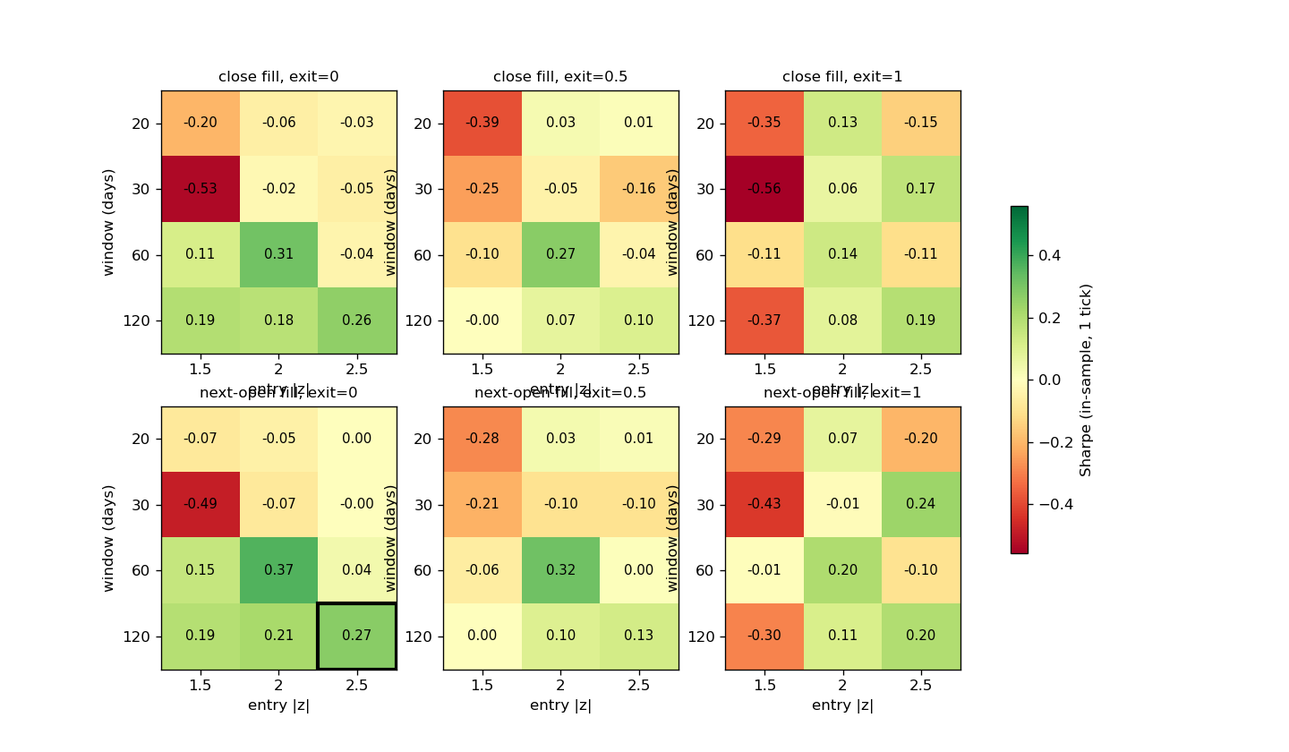
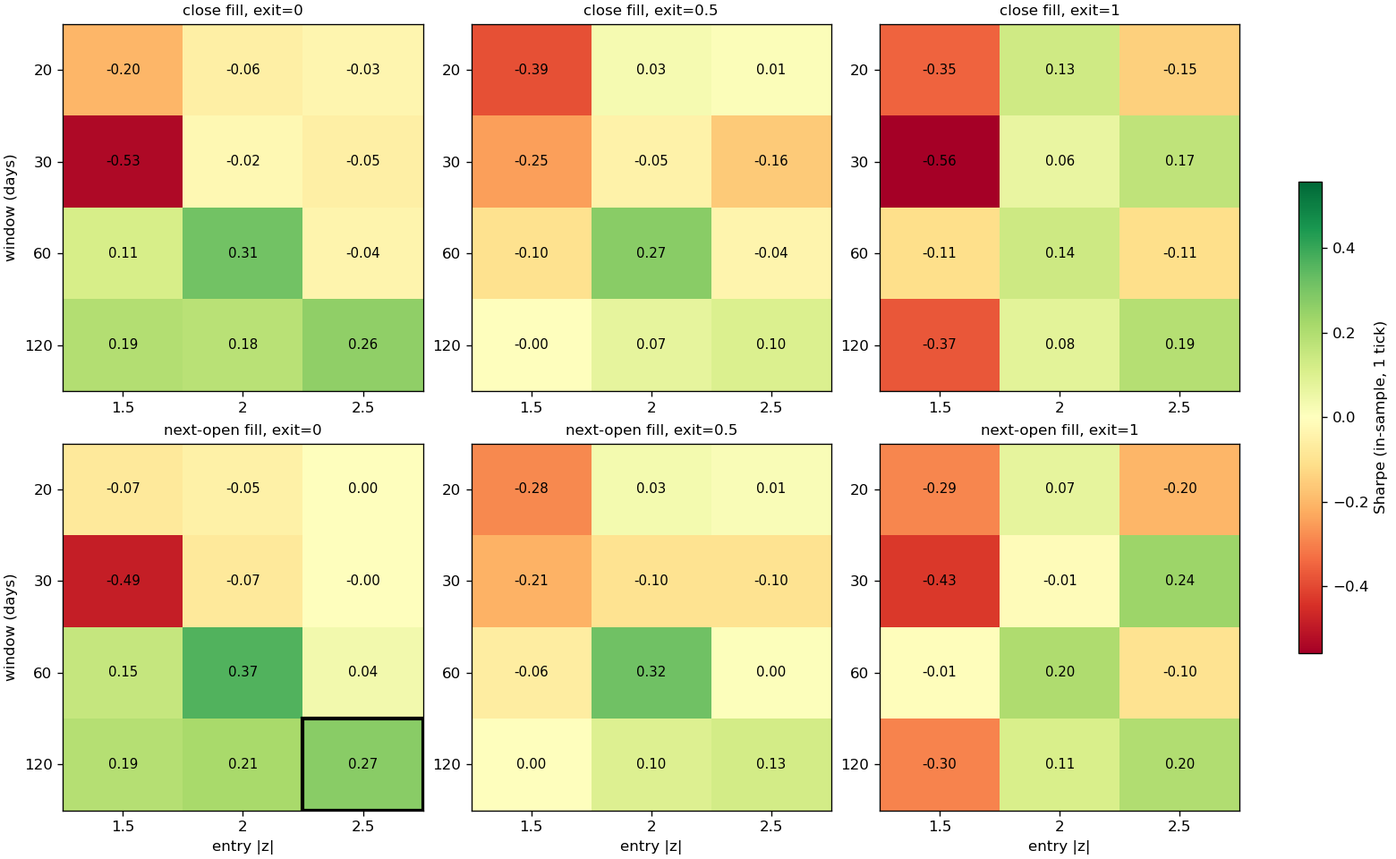
任务6：报告文字修订与说明性统计（策略、参数未动，样本外结果文件哈希不变）

diff --git a/src/report.py b/src/report.py
@@ -81,7 +81,7 @@ def fig_lines(panels, path, height=3.2):
 
 def fig_heatmap(g, sel, path):
     vmax = np.nanmax(np.abs(g['sharpe']))
-    fig, axes = plt.subplots(2, 3, figsize=(12, 7))
+    fig, axes = plt.subplots(2, 3, figsize=(13, 8), constrained_layout=True)
     for r, fill in enumerate(FILLS):
         for c, x in enumerate(EXITS):
             ax = axes[r, c]
@@ -95,8 +95,10 @@ def fig_heatmap(g, sel, path):
                 ax.add_patch(plt.Rectangle((j - .5, i - .5), 1, 1, fill=False, ec='black', lw=2.5))
             ax.set_xticks(range(len(ENTRIES)), [f'{e:g}' for e in ENTRIES])
             ax.set_yticks(range(len(WINDOWS)), [str(w) for w in WINDOWS])
-            ax.set_xlabel('entry |z|')
-            ax.set_ylabel('window (days)')
+            if r == 1:
+                ax.set_xlabel('entry |z|')
+            if c == 0:
+                ax.set_ylabel('window (days)')
             ax.set_title(f'{FILL_EN[fill]}, exit={x:g}', fontsize=10)
     fig.colorbar(im, ax=axes, shrink=0.6, label='Sharpe (in-sample, 1 tick)')
     fig.savefig(path, dpi=120)
@@ -152,7 +154,24 @@ def write(R):
     yr = R['yearly']
     d_c, d_o = df['open'], df['close']
     oos_t = R['oos'][1]['open', 1][1]
-    rolls = R['rolls']
+    rolls, ts, er = R['rolls'], R['ts'], R['early']
+    fmdd = [row(fx_tab, version=n, fill='open')['mdd'] for n in names]
+    fn = [int(row(fx_tab, version=n, fill='open')['n']) for n in names]
+    steps = [f'{names[k]}：夏普 {num(fsh[k - 1])}→{num(fsh[k])}，最大回撤 {pct(fmdd[k - 1])}→{pct(fmdd[k])}，交易 {fn[k - 1]}→{fn[k]} 笔'
+             for k in range(1, len(names))]
+    edge = [t for t, ok in (('窗口取最大值', P['window'] == max(WINDOWS)), ('窗口取最小值', P['window'] == min(WINDOWS)),
+                            ('开仓取最大值', P['entry'] == max(ENTRIES)), ('开仓取最小值', P['entry'] == min(ENTRIES)),
+                            ('平仓取最大值', P['exit'] == max(EXITS)), ('平仓取最小值', P['exit'] == min(EXITS))) if ok]
+    ti = R['cost_is'][1]['open', 1][1]
+    side = ti.groupby('side')['net'].agg(['size', 'sum'])
+    tc, to_ = R['oos'][1]['close', 1][1], R['oos'][1]['open', 1][1]
+    mg = tc.merge(to_, on='open_signal', suffixes=('_c', '_o'))
+    gd = mg['pnl_c'] - mg['pnl_o']
+    k = gd.idxmax()
+    kd = mg.at[k, 'open_signal']
+    i_k = mkt.dates.searchsorted(kd)
+    s_jump = (mkt.S_close.at[kd, mg.at[k, 'month_c']], mkt.S_open.iat[i_k + 1, mkt.months.index(mg.at[k, 'month_c'])])
+    yn = R['yearly']['n']
 
     s = []
     s.append(f"""# MTO 价差策略复盘：复现、缺陷与修正
@@ -184,13 +203,13 @@ S = 5·L + 5·PP − 30·MA（元/单位）
 
 **无成交日**：日线中收盘价缺失 {R['fills']['收盘用结算价补']:,} 行，用当日结算价补；开盘价缺失 {R['fills']['开盘用收盘价补']:,} 行，用补后的收盘价补（共 {R['fills']['总行数']:,} 行）。期货按结算价盯市，这条规则主要影响原版持有到期那几天。
 
-**样本内起点**：10 吨/手的 MA 合约 2014 年 6 月才上市。2014-12-01 至 {day(IS_START)} 之前换月日历在持的组为 {'、'.join(R['early']['months'])}，其 L、PP 腿日成交量中位数只有 {R['early']['vol']['L']:,.0f} 手、{R['early']['vol']['PP']:,.0f} 手，{R['early']['n']} 个交易日中有 {R['early']['zero_days']} 天某条腿没有成交。样本内从 {day(IS_START)} 开始（此时已换到三腿都活跃的组），这个起点在跑任何回测之前按流动性定下。
+**样本内起点**：10 吨/手的 MA 合约 2014 年 6 月才上市。2014-12-01 至 {day(er['last'])} 换月日历在持的组为 {'、'.join(R['early']['months'])}，其 L、PP 腿日成交量中位数只有 {R['early']['vol']['L']:,.0f} 手、{R['early']['vol']['PP']:,.0f} 手，{R['early']['n']} 个交易日中有 {R['early']['zero_days']} 天某条腿没有成交。样本内从 {day(IS_START)} 开始（此时已换到三腿都活跃的组），这个起点在跑任何回测之前按流动性定下。
 
-**换月**：三腿用同一交割月。每天在候选组里选前一交易日 MA 持仓量最大的那组（MA 主力），只向后换；某组合约在「交割月前一个月的首个交易日」之前 3 个交易日起不再选用，这样收盘成交和次日开盘成交两种口径都能在交割月前一个月之前换完。换月当天平旧开新，两边都计成本。样本内共换月 {rolls['n_is']} 次，换月日距交割月前一个月首日的交易日数中位数为 {rolls['lead_med']:.0f} 天。
+**换月**：三腿用同一交割月。每天在候选组里选前一交易日 MA 持仓量最大的那组（MA 主力），只向后换；某组合约在「交割月前一个月的首个交易日」之前 3 个交易日起不再选用，这样收盘成交和次日开盘成交两种口径都能在交割月前一个月之前换完。换月当天平旧开新，两边都计成本。样本内共换月 {rolls['n_is']} 次，换月日距交割月前一个月首日的交易日数中位数为 {rolls['lead_med']:.0f} 天，多数换月由截止日触发，此时 MA 持仓量还没有转到下一个主力合约。样本内有 {rolls['n_odd']} 次在截止日换到了非 01/05/09 月份（2022 年起郑商所甲醇这些月份的持仓量一度超过下一个 01/05/09 合约，规则选中了当时持仓量最大的可选组），随后 {rolls['lag_min']}–{rolls['lag_max']} 个交易日内又换到 01/05/09 月份，有持仓时多付一次换月成本。这是换月规则的缺陷，在样本外运行之后才发现，没有改（见 BLOCKED.md）。
 
 **μ、σ 的算法**：每组合约只用它自己过去 w 天的 S。例如换月当天，z 用新组合约过去 w 天的 S 算，不用「旧组历史接新组当日」的拼接序列，避免换月跳空伪造信号。`tests/test_data.py` 对此有专门测试。
 
-**成交与成本**：信号每天收盘算一次。乐观口径按信号日收盘价成交，保守口径按次日开盘价成交（三个品种有夜盘的时期，次日开盘即当晚夜盘开盘）。每腿每边手续费 = 名义额 × {FEE:.4f}，另加滑点 1 跳（另测 0 跳、2 跳）。1 单位 = 1 手 L + 1 手 PP + 3 手 MA，按样本内在持合约的收盘价，1 单位单边成本中位数约 {lv['cost_side_med']:.0f} 元，其中滑点 {lv['slip_side']:.0f} 元。
+**成交与成本**：信号每天收盘算一次。乐观口径按信号日收盘价成交，保守口径按次日开盘价成交（三个品种有夜盘的时期，次日开盘即当晚夜盘开盘）。每腿每边手续费 = 名义额 × {FEE:.4f}，另加滑点 1 跳（另测 0 跳、2 跳）。1 单位 = 1 手 L + 1 手 PP + 3 手 MA，按样本内在持合约的收盘价，1 单位单边成本中位数约 {lv['cost_side_med']:.0f} 元；其中 1 跳滑点在 {day(L_TICK5_BEFORE)} 前为 {lv['slip_before']:.0f} 元、之后为 {lv['slip_after']:.0f} 元。
 
 **收益口径**：日收益率 = 当日净盈亏 / ({MARGIN:.0%} × 前一交易日在持合约 1 单位名义总额)。1 单位名义总额中位数约 {lv['notional_med']/1e4:.1f} 万元，对应保证金约 {lv['margin_med']/1e4:.2f} 万元。净值按日收益简单累加（仓位固定 1 单位，不复利）；年化收益 = 日均收益 × 252；夏普 = 年化收益 / 年化波动（无风险利率取 0，空仓日收益记 0）；最大回撤按累加净值相对前高计算。
 
@@ -207,7 +226,7 @@ S = 5·L + 5·PP − 30·MA（元/单位）
 （fill：close 为乐观口径，open 为保守口径。）交易明细见 `report/trades_original.csv`。
 
 - 原版在样本内保守口径、1 跳成本下年化收益 {pct(v0c.ann_ret)}，夏普 {num(v0c.sharpe)}，最大回撤 {pct(v0c.mdd)}，共 {int(v0c.n)} 笔交易，胜率 {pct(v0c.win)}。乐观口径夏普 {num(v0o.sharpe)}；零成本保守口径夏普 {num(v0z.sharpe)}。{'最大回撤超过 100%，按 12% 保证金持 1 单位，回撤期间亏掉的钱超过全部保证金，实盘会被强平。' if v0c.mdd > 1 else ''}
-- 在原脚本自己的 2409 合约与区间上（保守口径、1 跳），共 {int(dm.n)} 笔交易，年化收益 {pct(dm.ann_ret)}，夏普 {num(dm.sharpe)}。区间只有半年，交易笔数少，这组数只用来核对复现本身。
+- 在原脚本自己的 2409 合约与区间上（保守口径、1 跳），共 {int(dm.n)} 笔交易，年化收益 {pct(dm.ann_ret)}，夏普 {num(dm.sharpe)}。区间只有半年、{int(dm.n)} 笔交易；同一逻辑放到整个样本内夏普为 {num(v0c.sharpe)}，{'原脚本自带的回测区间恰好是这个策略表现好的一段。' if dm.sharpe > v0c.sharpe + 0.5 else '两者差别不大。'}
 
 ![原版净值](fig/equity_original.png)
 
@@ -215,12 +234,12 @@ S = 5·L + 5·PP − 30·MA（元/单位）
 
 以下定量都取原版样本内结果（1 跳成本），括号前为保守口径，括号内为乐观口径。
 
-1. **止损后没有冷静期**。止损把 `in_position` 置为 False 后，下一次判断时 z 往往仍在 ±2 以外，会按原方向立刻重开。样本内止损 {d_c['n_stop']} 次（{d_o['n_stop']} 次），其中止损次日同方向重开 {d_c['n_reentry']} 次（{d_o['n_reentry']} 次），这些重开交易净盈亏合计 {d_c['reentry_net']:,.0f} 元/单位（{d_o['reentry_net']:,.0f}）。原脚本在盘中每个 tick 都判断，重开可能发生在止损后的下一个 tick，日线回测看不到这一层。
-2. **不换月**。合约写死，到期前一个多月流动性已转到下一个合约，交割月前一个月交易所上调保证金、自然人不能进入交割月。样本内有仓位的 {d_c['held_days']} 天中，有 {d_c['late_days']} 天落在交割月前一个月或交割月（其中交割月 {d_c['deliv_days']} 天），这些天的净盈亏合计 {d_c['late_net']:,.0f} 元/单位；这些天在持 MA 合约日成交量中位数 {d_c['vol_late']:,.0f} 手，其余持仓日为 {d_c['vol_normal']:,.0f} 手。到期强平 {d_c['n_expiry']} 次。
+1. **止损后没有冷静期**。止损把 `in_position` 置为 False 后，下一次判断时 z 往往仍在 ±2 以外，会按原方向立刻重开。样本内止损 {d_c['n_stop']} 次（{d_o['n_stop']} 次），其中止损次日同方向重开 {d_c['n_reentry']} 次（{d_o['n_reentry']} 次），这些重开交易净盈亏合计 {d_c['reentry_net']:,.0f} 元/单位（{d_o['reentry_net']:,.0f}），胜率 {pct(d_c['reentry_win'])}（{pct(d_o['reentry_win'])}）。原脚本在盘中每个 tick 都判断，重开可能发生在止损后的下一个 tick，日线回测看不到这一层。
+2. **不换月**。合约写死，到期前一个多月流动性已转到下一个合约，临近交割月交易所分段提高保证金，个人客户的持仓不能进入交割月。样本内有仓位的 {d_c['held_days']} 天中，有 {d_c['late_days']} 天落在交割月前一个月或交割月（其中交割月 {d_c['deliv_days']} 天），这些天的净盈亏合计 {d_c['late_net']:,.0f} 元/单位（{d_o['late_net']:,.0f}），全部持仓日合计 {d_c['total_net']:,.0f}（{d_o['total_net']:,.0f}）；这些天在持 MA 合约日成交量中位数 {d_c['vol_late']:,.0f} 手，其余持仓日为 {d_c['vol_normal']:,.0f} 手。到期强平 {d_c['n_expiry']} 次。
 3. **平仓条件不分方向**。平仓要求 |z| < 0.5。如果做空后 z 一天内从 2 以上跌到 −0.5 以下，价差已越过均值，脚本仍持仓，要等 z 回到 ±0.5 以内才平，而持空的止损只看 z > 3。样本内有 {d_c['n_overshoot']} 笔交易（{d_o['n_overshoot']} 笔）在持仓期间出现过 z 越过均值到另一侧 0.5 以外仍未平仓。另外平仓阈值取 0 时 |z| < 0 永远不成立，网格里测平仓阈值 0 需要改成方向性判断。
-4. **窗口 {W0} 天与价差回归速度对不上**。样本内去掉换月跳空后的连续价差，AR(1) 半衰期为 {st['adj_hl']:.1f} 个交易日，ADF 检验 p 值 {st['adj_p']:.2f}；每组合约在持期内单独估计，半衰期中位数 {st['per']['hl'].median():.1f} 天，但 {len(st['per'])} 组里只有 {int((st['per']['p'] < 0.05).sum())} 组 ADF 在 5% 水平拒绝单位根。两种估计相差一个数量级，日频上价差均值回归的证据弱。
+4. **窗口 {W0} 天与价差回归速度对不上**。样本内去掉换月跳空后的连续价差，AR(1) 半衰期为 {st['adj_hl']:.1f} 个交易日，ADF 检验 p 值 {st['adj_p']:.2f}；每组合约在持期内单独估计，半衰期中位数 {st['per']['hl'].median():.1f} 天，但 {len(st['per'])} 组里只有 {int((st['per']['p'] < 0.05).sum())} 组 ADF 在 5% 水平拒绝单位根。两种估计相差约 {st['adj_hl'] / st['per']['hl'].median():.0f} 倍，日频上价差均值回归的证据弱。
 5. **`position_time` 记录了没用**，没有持仓时间上限。
-6. 其他（日线回测无法定量，只列出）：三腿 K 线按序号对齐而非按日期，某腿缺一根 K 线时三腿会错位；`current_l_pos` 取的是成交回报后的实际持仓，委托未成交时止损判断会失效；回测未计手续费和滑点；100 手 L、300 手 MA 的下单量未考虑盘口深度。
+6. 其他（日线回测无法定量，只列出）：三腿 K 线按序号对齐而非按日期，某腿缺一根 K 线时三腿会错位；`current_l_pos` 取的是成交回报后的实际持仓，委托未成交时止损判断会失效；100 手 L、300 手 MA 的下单量未考虑盘口深度。
 
 ## 5 修正版（样本内，1 跳成本）
 
@@ -233,7 +252,7 @@ S = 5·L + 5·PP − 30·MA（元/单位）
 
 {mtable(fx_tab, ['version', 'fill'], '版本 / 成交')}
 
-保守口径下各步夏普：""" + '；'.join(f'{n} {num(v)}' for n, v in zip(names, fsh)) + f"""。年化收益：""" + '；'.join(f'{n} {pct(v)}' for n, v in zip(names, far)) + f"""。
+保守口径逐步变化：""" + '；'.join(steps) + f"""。
 
 ![各版本净值](fig/equity_versions.png)
 
@@ -243,7 +262,7 @@ S = 5·L + 5·PP − 30·MA（元/单位）
 
 ![夏普热力图](fig/heatmap_sharpe.png)
 
-保守口径 36 格中夏普为正的有 {int((gi['sharpe'] > 0).sum())} 格，中位数 {num(gi['sharpe'].median())}，最高 {num(gi['sharpe'].max())}，最低 {num(gi['sharpe'].min())}。
+保守口径 36 格中夏普为正的有 {int((gi['sharpe'] > 0).sum())} 格，中位数 {num(gi['sharpe'].median())}，最高 {num(gi['sharpe'].max())}，最低 {num(gi['sharpe'].min())}。{('选中格处在网格边上（' + '、'.join(edge) + '），邻域比内部格少，网格以外的参数没有测。') if edge else ''}
 
 **选参规则**：每格与它在窗口、开仓、平仓三个方向上的相邻格（含对角，边界截断）取保守口径夏普的平均，选平均最高的格，不看单点最高。选出窗口 {P['window']}、开仓 {P['entry']:g}、平仓 {P['exit']:g}：本格夏普 {num(P['sharpe'])}，邻域平均 {num(P['neighborhood_sharpe'])}。单点最高的格是窗口 {P['best_single']['window']}、开仓 {P['best_single']['entry']:g}、平仓 {P['best_single']['exit']:g}，夏普 {num(P['best_single']['sharpe'])}，其邻域平均 {num(P['best_single']['neighborhood_sharpe'])}。参数已写入 `report/params.json` 并单独提交，之后才运行样本外。本次运行按同一规则重算的选择与冻结参数{'一致' if same else '不一致（样本外仍用冻结参数）'}。
 
@@ -251,7 +270,7 @@ S = 5·L + 5·PP − 30·MA（元/单位）
 
 {table(yr.rename(columns={'ret': '年度收益', 'sharpe': '夏普', 'mdd': '年内最大回撤', 'n': '开仓次数'}).rename_axis('年份'), {'年度收益': pct, '年内最大回撤': pct, '开仓次数': lambda v: f'{int(v)}'})}
 
-样本内 {len(yr)} 个年度中收益为正的有 {int((yr['ret'] > 0).sum())} 个。
+样本内 {len(yr)} 个年度中收益为正的有 {int((yr['ret'] > 0).sum())} 个；冻结参数样本内共 {int(pc.n)} 笔交易，每年 {yn.min()}–{yn.max()} 笔，年度收益在 {pct(yr['ret'].min())} 到 {pct(yr['ret'].max())} 之间。
 
 **成本敏感性**（冻结参数，样本内）：
 
@@ -265,6 +284,8 @@ S = 5·L + 5·PP − 30·MA（元/单位）
 
 每组合约在持期内单独检验（在持不少于 40 天的 {len(st['per'])} 组）：ADF p < 0.05 的有 {int((st['per']['p'] < 0.05).sum())} 组，p 值中位数 {st['per']['p'].median():.3f}；半衰期中位数 {st['per']['hl'].median():.1f} 天。
 
+**价差的期限结构**：样本内 {ts['n']} 次换月中，新组合约的 S 低于旧组同日收盘的占 {pct(ts['gap_neg'])}，平均差 {ts['gap_mean']:,.0f} 元/单位。在持组逐日变化累加为 {st['adj'].iloc[-1]:+,.0f} 元，而在持组原始 S 从 {ts['raw0']:,.0f} 元变为 {ts['raw1']:,.0f} 元：远月组的利润价差系统性低于近月组，每组在持期间 S 平均向上走（见第 2 节图中第二幅）。z 分数以滚动均值为中心、多空对称，持有期内的向上漂移对做空利润一方不利。冻结参数样本内（保守口径）做空利润 {int(side.at[-1, 'size'])} 笔、净盈亏合计 {side.at[-1, 'sum']:,.0f} 元/单位；做多利润 {int(side.at[1, 'size'])} 笔、合计 {side.at[1, 'sum']:,.0f} 元/单位。
+
 ## 7 样本外（{day(OOS_START)} 至 {day(last)}，冻结参数，只跑一次）
 
 参数：窗口 {P['window']}、开仓 {P['entry']:g}、平仓 {P['exit']:g}、止损 {P['entry'] * P['stop_mult']:g}，冷静期、换月、方向性平仓均开启。样本外从空仓开始。
@@ -273,17 +294,19 @@ S = 5·L + 5·PP − 30·MA（元/单位）
 
 保守口径、1 跳：样本外年化收益 {pct(po.ann_ret)}，夏普 {num(po.sharpe)}，最大回撤 {pct(po.mdd)}，{int(po.n)} 笔交易；同参数样本内夏普 {num(pc.sharpe)}。乐观口径样本外夏普 {num(pco.sharpe)}。
 
+两种口径的信号完全相同，差别只在成交价。样本外 {len(mg)} 笔交易的毛盈亏，乐观口径合计 {mg['pnl_c'].sum():,.0f} 元/单位，保守口径 {mg['pnl_o'].sum():,.0f} 元/单位，差 {gd.sum():,.0f}；其中 {day(kd)} 发出信号的那笔差 {gd[k]:,.0f}，当晚在持组 S 从收盘 {s_jump[0]:,.0f} 元跳到次日开盘 {s_jump[1]:,.0f} 元。去掉这一笔，两种口径毛盈亏差 {gd.sum() - gd[k]:,.0f} 元/单位。
+
 样本外交易（保守口径、1 跳）：
 
-{table(oos_t.assign(side=oos_t.side.map({1: '做多利润', -1: '做空利润'})).set_index('open_exec').rename_axis('开仓成交日')[['side', 'close_exec', 'reason', 'z_open', 'z_close', 'hold_days', 'rolls', 'net']].rename(columns={'side': '方向', 'close_exec': '平仓成交日', 'reason': '平仓原因', 'z_open': '开仓z', 'z_close': '平仓z', 'hold_days': '持仓天数', 'rolls': '换月', 'net': '净盈亏(元/单位)'}), {'开仓z': num, '平仓z': num, '净盈亏(元/单位)': lambda v: f'{v:,.0f}'}) if len(oos_t) else '（无交易）'}
+{table(oos_t.assign(side=oos_t.side.map({1: '做多利润', -1: '做空利润'}), open_exec=oos_t.open_exec.map(day), close_exec=oos_t.close_exec.map(day)).set_index('open_exec').rename_axis('开仓成交日')[['side', 'close_exec', 'reason', 'z_open', 'z_close', 'hold_days', 'rolls', 'net']].rename(columns={'side': '方向', 'close_exec': '平仓成交日', 'reason': '平仓原因', 'z_open': '开仓z', 'z_close': '平仓z', 'hold_days': '持仓天数', 'rolls': '换月', 'net': '净盈亏(元/单位)'}), {'开仓z': num, '平仓z': num, '净盈亏(元/单位)': lambda v: f'{v:,.0f}'}) if len(oos_t) else '（无交易）'}
 
 ![样本外净值](fig/equity_oos.png)
 
 ## 8 实盘视角
 
-**三腿同步成交**：MA 在郑商所，L、PP 在大商所，三腿无法用一张组合单成交，只能分腿下单，先成交的腿要承担其余腿的价格变动。日线数据量化不了盘中分腿的风险，只能给出两个参照：样本内在持组合约的价差从前一日收盘到次日开盘的跳动绝对值中位数 {lv['gap_med']:,.0f} 元/单位、90% 分位 {lv['gap_p90']:,.0f} 元，同期 {W0} 日滚动 σ 中位数 {lv['sd_med']:,.0f} 元；冻结参数下保守口径与乐观口径的样本内夏普分别为 {num(row(c_is, fill='open', ticks=1).sharpe)} 和 {num(row(c_is, fill='close', ticks=1).sharpe)}，差值反映成交时点晚半天的代价。
+**三腿同步成交**：MA 在郑商所，L、PP 在大商所，三腿无法用一张组合单成交，只能分腿下单，先成交的腿要承担其余腿的价格变动。日线数据量化不了盘中分腿的风险，只能给出两个参照：样本内在持组合约的价差从前一日收盘到次日开盘的跳动绝对值中位数 {lv['gap_med']:,.0f} 元/单位、90% 分位 {lv['gap_p90']:,.0f} 元，同期 {W0} 日滚动 σ 中位数 {lv['sd_med']:,.0f} 元；冻结参数下保守、乐观口径的夏普，样本内为 {num(pc.sharpe)} 和 {num(row(c_is, fill='close', ticks=1).sharpe)}，样本外为 {num(po.sharpe)} 和 {num(pco.sharpe)}。样本外的差距主要来自第 7 节那一次隔夜跳空。信号在收盘产生，实盘要按接近收盘的价格成交，只能在收盘前几分钟用盘中价格算信号并三腿同时下单，成交价介于两种口径之间，还要承担分腿风险。
 
-**保证金**：按 {MARGIN:.0%} 计，1 单位保证金中位数约 {lv['margin_med']/1e4:.2f} 万元。冻结参数样本内（保守口径）单笔交易持仓期间最大浮亏中位数为保证金的 {pct(lv['mae_med'])}，最差一笔为 {pct(lv['mae_worst'])}。实盘还要留出交易所临近交割月上调保证金和期货公司加收的部分；换月规则让持仓不进入交割月前一个月，避开了临近交割的保证金上调。
+**保证金**：按 {MARGIN:.0%} 计，1 单位保证金中位数约 {lv['margin_med']/1e4:.2f} 万元。冻结参数样本内（保守口径）单笔交易持仓期间最大浮亏占保证金的比例，中位数 {pct(-lv['mae_med'])}，最差一笔 {pct(-lv['mae_worst'])}。实盘还要留出交易所临近交割月上调保证金和期货公司加收的部分；换月规则让持仓不进入交割月前一个月，避开了临近交割的保证金上调。
 
 **流动性**：样本内在持合约日成交量中位数 L {lv['vol_med']['L']:,.0f} 手、PP {lv['vol_med']['PP']:,.0f} 手、MA {lv['vol_med']['MA']:,.0f} 手；换月当天新组合约的成交量中位数 L {lv['vol_roll']['L']:,.0f}、PP {lv['vol_roll']['PP']:,.0f}、MA {lv['vol_roll']['MA']:,.0f} 手。原脚本的下单量（100 手 L、100 手 PP、300 手 MA）分别占上述日成交量中位数的 {pct(lv['demo_share']['L'], 2)}、{pct(lv['demo_share']['PP'], 2)}、{pct(lv['demo_share']['MA'], 2)}。日成交量只说明全天容量，开盘和夜盘开盘时点的盘口深度需要逐笔数据另行评估。
 
@@ -295,7 +318,9 @@ S = 5·L + 5·PP − 30·MA（元/单位）
 **局限**：
 - 只有日线，信号每天判断一次，盘中触发、分腿成交、冲击成本都没有模拟；滑点按固定跳数假设，没有盘口数据校准。
 - 手续费按名义额万分之一估计，与各期货公司实际费率不同；成本敏感性表给出 0、1、2 跳的结果。
-- 10 吨/手的 MA 合约 2014 年 6 月才上市，样本内从 {day(IS_START)} 开始，前几个月在持的 MA 合约还不是全市场主力（当时主力是 50 吨/手的老合约，不在数据里）。
+- 10 吨/手的 MA 合约 2014 年 6 月才上市，早期组合约的 L、PP 腿成交稀少，样本内从 {day(IS_START)} 开始，只有约 10 年。
+- 换月规则按当时持仓量最大的可选组换，样本内有 {rolls['n_odd']} 次先换到非 01/05/09 月份、几周内再换一次（第 2 节）；这一点在样本外运行后才发现，没有改。
+- ③ 的窗口规则在看过样本内网格后改过一次（第 5 节）。
 - 样本外约 {R['oos_years']:.1f} 年，交易 {int(po.n)} 笔，统计意义有限。
 - 选参只看夏普一个指标，邻域取平均的规则本身也是一种选择。
 
@@ -313,12 +338,19 @@ pytest -q                # 数据层与回测引擎测试
 
 
 def conclusions(R, v0c, fsh, far, gi, P, pc, po, same):
-    out = []
-    out.append(f"1. 原版逻辑在样本内扣除 1 跳成本后（保守口径）年化收益 {pct(v0c.ann_ret)}、夏普 {num(v0c.sharpe)}，"
-               f"{'不具备可交易的收益' if v0c.sharpe < 0.5 else '有一定收益'}。")
-    out.append(f"2. 四处修正累加后（v4，保守口径）夏普由 {num(fsh[0])} {up_down(fsh[0], fsh[-1])} {num(fsh[-1])}，"
-               f"年化收益由 {pct(far[0])} 变为 {pct(far[-1])}。各步贡献见第 5 节表格。")
-    out.append(f"3. 参数网格保守口径 36 格中 {int((gi['sharpe'] > 0).sum())} 格夏普为正；按邻域平均选出的参数样本内夏普 {num(pc.sharpe)}。")
-    out.append(f"4. 冻结参数在样本外（保守口径、1 跳）夏普 {num(po.sharpe)}、年化收益 {pct(po.ann_ret)}、{int(po.n)} 笔交易，"
-               f"{'方向与样本内一致' if np.sign(po.ann_ret) == np.sign(pc.ann_ret) else '与样本内方向相反'}。")
+    names = list(R['fix'][0]['version'].unique())
+    k = int(np.argmax(np.diff(fsh))) + 1
+    pco = row(R['oos'][0], fill='close', ticks=1)
+    st = R['stat']
+    out = [f"1. 原版逻辑在样本内扣除 1 跳成本后（保守口径）年化收益 {pct(v0c.ann_ret)}、夏普 {num(v0c.sharpe)}、最大回撤 {pct(v0c.mdd)}，"
+           f"{'没有可交易的收益' if v0c.sharpe < 0.5 else '有一定收益'}；主要亏损来自不换月时在交割月前一个月及交割月的持仓（第 4 节第 2 条）。",
+           f"2. 四处修正累加后（v4，保守口径）夏普由 {num(fsh[0])} 变为 {num(fsh[-1])}，年化收益由 {pct(far[0])} 变为 {pct(far[-1])}；"
+           f"单步夏普提高最多的是 {names[k]}（{num(fsh[k - 1])}→{num(fsh[k])}）。",
+           f"3. 参数网格保守口径 36 格中 {int((gi['sharpe'] > 0).sum())} 格夏普为正、中位数 {num(gi['sharpe'].median())}；"
+           f"按邻域平均选出的参数样本内夏普 {num(pc.sharpe)}，只有 {int(pc.n)} 笔交易。",
+           f"4. 冻结参数在样本外保守口径（1 跳）夏普 {num(po.sharpe)}、年化收益 {pct(po.ann_ret)}，乐观口径夏普 {num(pco.sharpe)}，"
+           f"共 {int(po.n)} 笔交易；两种口径的差距基本来自一次隔夜跳空（第 7 节）。",
+           f"5. 去掉换月跳空后的连续价差 ADF p 值 {st['adj_p']:.2f}、半衰期 {st['adj_hl']:.0f} 个交易日，远月组价差系统性低于近月组；"
+           + ("在这些条件下，这个 z 分数均值回归策略修正后的样本内夏普不高、样本外保守口径没有正收益，现有证据不支持实盘。"
+              if pc.sharpe < 0.5 and po.sharpe < 0.5 else "策略收益需要结合上面的弱平稳性一起看。")]
     return '\n'.join(out) + '\n'

diff --git a/src/analysis.py b/src/analysis.py
@@ -203,7 +203,20 @@ def roll_stats(lab):
     tab = pd.DataFrame({'date': sw, 'from': old.to_numpy(), 'to': cal.loc[sw].to_numpy(), 'lead_days': lead})
     tab = tab.join(lab.mkt.codes.add_prefix('to_'), on='to')
     ins = (tab.date >= IS_START) & (tab.date <= IS_END)
-    return dict(n_is=int(ins.sum()), lead_med=float(np.median(lead[ins])), table=tab)
+    odd = ins & ~tab['to'].str[4:].isin(['01', '05', '09'])  # 换到非 01/05/09 月份
+    lag = dates.searchsorted(tab.date.shift(-1)[odd]) - dates.searchsorted(tab.date[odd])
+    return dict(n_is=int(ins.sum()), lead_med=float(np.median(lead[ins])), table=tab,
+                n_odd=int(odd.sum()), lag_min=int(lag.min()), lag_max=int(lag.max()))
+
+
+def term_structure(lab, start=IS_START, end=IS_END):
+    """换月日新组与旧组同日收盘 S 之差（新 − 旧），以及在持组原始 S 的首末值。"""
+    S, cal = lab.mkt.S_close, lab.cal['roll']
+    c = cal.loc[start:end]
+    sw = c.index[(c != c.shift()) & c.shift().notna()]
+    gap = pd.Series([S.at[d, n] - S.at[d, o] for d, o, n in zip(sw, cal.shift(1).loc[sw], c.loc[sw])], index=sw)
+    raw = pick(S, cal).loc[start:end]
+    return dict(n=len(gap), gap_mean=gap.mean(), gap_neg=(gap < 0).mean(), raw0=raw.iloc[0], raw1=raw.iloc[-1])
 
 
 def early_liquidity(lab, start='20141201', end=IS_START):
@@ -211,7 +224,7 @@ def early_liquidity(lab, start='20141201', end=IS_START):
     mkt, cal = lab.mkt, lab.cal['roll']
     days = cal.loc[start:end].index[:-1]
     v = {l: pick(mkt.vol[l], cal).loc[days] for l in LEGS}
-    return dict(months=sorted(set(cal.loc[days])), vol={l: s.median() for l, s in v.items()},
+    return dict(months=sorted(set(cal.loc[days])), last=days[-1], vol={l: s.median() for l, s in v.items()},
                 zero_days=int((sum(s == 0 for s in v.values()) > 0).sum()), n=len(days))
 
 
@@ -228,7 +241,8 @@ def live(lab, runs, start=IS_START, end=IS_END):
     return dict(gap_med=gap.median(), gap_p90=gap.quantile(0.9), sd_med=sd.median(),
                 notional_med=notional.median(), margin_med=MARGIN * notional.median(),
                 cost_side_med=pick(unit_cost(mkt, mkt.close, 1), cal).loc[start:end].median(),
-                slip_side=pick(unit_cost(mkt, mkt.close, 1) - unit_cost(mkt, mkt.close, 0), cal).loc[start:end].median(),
+                slip_before=sum(LOTS[l] * mkt.unit[l] * mkt.tick[l].loc[start].iloc[0] for l in LEGS),
+                slip_after=sum(LOTS[l] * mkt.unit[l] * mkt.tick[l].loc[end].iloc[0] for l in LEGS),
                 mae_med=(t.mae / t.margin).median(), mae_worst=(t.mae / t.margin).min(),
                 vol_med={l: v.median() for l, v in vol.items()},
                 vol_roll={l: v.loc[sw].median() for l, v in vol.items()},

diff --git a/run_all.py b/run_all.py
@@ -42,6 +42,7 @@ def main():
     R['live'] = A.live(lab, R['cost_is'][1])
     R['rolls'] = A.roll_stats(lab)
     R['early'] = A.early_liquidity(lab)
+    R['ts'] = A.term_structure(lab)
 
     out = A.REPORT
     R['orig'][1].to_csv(out / 'trades_original.csv', index=False)

diff --git a/report/report.md b/report/report.md
@@ -42,13 +42,13 @@ S = 5·L + 5·PP − 30·MA（元/单位）
 
 **无成交日**：日线中收盘价缺失 7,075 行，用当日结算价补；开盘价缺失 33,579 行，用补后的收盘价补（共 109,487 行）。期货按结算价盯市，这条规则主要影响原版持有到期那几天。
 
-**样本内起点**：10 吨/手的 MA 合约 2014 年 6 月才上市。2014-12-01 至 2015-05-04 之前换月日历在持的组为 201506、201509，其 L、PP 腿日成交量中位数只有 24 手、18 手，101 个交易日中有 30 天某条腿没有成交。样本内从 2015-05-04 开始（此时已换到三腿都活跃的组），这个起点在跑任何回测之前按流动性定下。
+**样本内起点**：10 吨/手的 MA 合约 2014 年 6 月才上市。2014-12-01 至 2015-04-30 换月日历在持的组为 201506、201509，其 L、PP 腿日成交量中位数只有 24 手、18 手，101 个交易日中有 30 天某条腿没有成交。样本内从 2015-05-04 开始（此时已换到三腿都活跃的组），这个起点在跑任何回测之前按流动性定下。
 
-**换月**：三腿用同一交割月。每天在候选组里选前一交易日 MA 持仓量最大的那组（MA 主力），只向后换；某组合约在「交割月前一个月的首个交易日」之前 3 个交易日起不再选用，这样收盘成交和次日开盘成交两种口径都能在交割月前一个月之前换完。换月当天平旧开新，两边都计成本。样本内共换月 35 次，换月日距交割月前一个月首日的交易日数中位数为 2 天。
+**换月**：三腿用同一交割月。每天在候选组里选前一交易日 MA 持仓量最大的那组（MA 主力），只向后换；某组合约在「交割月前一个月的首个交易日」之前 3 个交易日起不再选用，这样收盘成交和次日开盘成交两种口径都能在交割月前一个月之前换完。换月当天平旧开新，两边都计成本。样本内共换月 35 次，换月日距交割月前一个月首日的交易日数中位数为 2 天，多数换月由截止日触发，此时 MA 持仓量还没有转到下一个主力合约。样本内有 5 次在截止日换到了非 01/05/09 月份（2022 年起郑商所甲醇这些月份的持仓量一度超过下一个 01/05/09 合约，规则选中了当时持仓量最大的可选组），随后 2–10 个交易日内又换到 01/05/09 月份，有持仓时多付一次换月成本。这是换月规则的缺陷，在样本外运行之后才发现，没有改（见 BLOCKED.md）。
 
 **μ、σ 的算法**：每组合约只用它自己过去 w 天的 S。例如换月当天，z 用新组合约过去 w 天的 S 算，不用「旧组历史接新组当日」的拼接序列，避免换月跳空伪造信号。`tests/test_data.py` 对此有专门测试。
 
-**成交与成本**：信号每天收盘算一次。乐观口径按信号日收盘价成交，保守口径按次日开盘价成交（三个品种有夜盘的时期，次日开盘即当晚夜盘开盘）。每腿每边手续费 = 名义额 × 0.0001，另加滑点 1 跳（另测 0 跳、2 跳）。1 单位 = 1 手 L + 1 手 PP + 3 手 MA，按样本内在持合约的收盘价，1 单位单边成本中位数约 74 元，其中滑点 60 元。
+**成交与成本**：信号每天收盘算一次。乐观口径按信号日收盘价成交，保守口径按次日开盘价成交（三个品种有夜盘的时期，次日开盘即当晚夜盘开盘）。每腿每边手续费 = 名义额 × 0.0001，另加滑点 1 跳（另测 0 跳、2 跳）。1 单位 = 1 手 L + 1 手 PP + 3 手 MA，按样本内在持合约的收盘价，1 单位单边成本中位数约 74 元；其中 1 跳滑点在 2021-11-01 前为 60 元、之后为 40 元。
 
 **收益口径**：日收益率 = 当日净盈亏 / (12% × 前一交易日在持合约 1 单位名义总额)。1 单位名义总额中位数约 15.5 万元，对应保证金约 1.86 万元。净值按日收益简单累加（仓位固定 1 单位，不复利）；年化收益 = 日均收益 × 252；夏普 = 年化收益 / 年化波动（无风险利率取 0，空仓日收益记 0）；最大回撤按累加净值相对前高计算。
 
@@ -74,7 +74,7 @@ S = 5·L + 5·PP − 30·MA（元/单位）
 （fill：close 为乐观口径，open 为保守口径。）交易明细见 `report/trades_original.csv`。
 
 - 原版在样本内保守口径、1 跳成本下年化收益 5.0%，夏普 0.07，最大回撤 112.0%，共 158 笔交易，胜率 53.8%。乐观口径夏普 -0.02；零成本保守口径夏普 0.21。最大回撤超过 100%，按 12% 保证金持 1 单位，回撤期间亏掉的钱超过全部保证金，实盘会被强平。
-- 在原脚本自己的 2409 合约与区间上（保守口径、1 跳），共 8 笔交易，年化收益 43.1%，夏普 1.66。区间只有半年，交易笔数少，这组数只用来核对复现本身。
+- 在原脚本自己的 2409 合约与区间上（保守口径、1 跳），共 8 笔交易，年化收益 43.1%，夏普 1.66。区间只有半年、8 笔交易；同一逻辑放到整个样本内夏普为 0.07，原脚本自带的回测区间恰好是这个策略表现好的一段。
 
 ![原版净值](fig/equity_original.png)
 
@@ -82,12 +82,12 @@ S = 5·L + 5·PP − 30·MA（元/单位）
 
 以下定量都取原版样本内结果（1 跳成本），括号前为保守口径，括号内为乐观口径。
 
-1. **止损后没有冷静期**。止损把 `in_position` 置为 False 后，下一次判断时 z 往往仍在 ±2 以外，会按原方向立刻重开。样本内止损 60 次（60 次），其中止损次日同方向重开 52 次（52 次），这些重开交易净盈亏合计 8,612 元/单位（-503）。原脚本在盘中每个 tick 都判断，重开可能发生在止损后的下一个 tick，日线回测看不到这一层。
-2. **不换月**。合约写死，到期前一个多月流动性已转到下一个合约，交割月前一个月交易所上调保证金、自然人不能进入交割月。样本内有仓位的 1136 天中，有 500 天落在交割月前一个月或交割月（其中交割月 172 天），这些天的净盈亏合计 -21,665 元/单位；这些天在持 MA 合约日成交量中位数 35,884 手，其余持仓日为 1,196,600 手。到期强平 15 次。
+1. **止损后没有冷静期**。止损把 `in_position` 置为 False 后，下一次判断时 z 往往仍在 ±2 以外，会按原方向立刻重开。样本内止损 60 次（60 次），其中止损次日同方向重开 52 次（52 次），这些重开交易净盈亏合计 8,612 元/单位（-503），胜率 51.9%（50.0%）。原脚本在盘中每个 tick 都判断，重开可能发生在止损后的下一个 tick，日线回测看不到这一层。
+2. **不换月**。合约写死，到期前一个多月流动性已转到下一个合约，临近交割月交易所分段提高保证金，个人客户的持仓不能进入交割月。样本内有仓位的 1136 天中，有 500 天落在交割月前一个月或交割月（其中交割月 172 天），这些天的净盈亏合计 -21,665 元/单位（-18,097），全部持仓日合计 12,289（-1,819）；这些天在持 MA 合约日成交量中位数 35,884 手，其余持仓日为 1,196,600 手。到期强平 15 次。
 3. **平仓条件不分方向**。平仓要求 |z| < 0.5。如果做空后 z 一天内从 2 以上跌到 −0.5 以下，价差已越过均值，脚本仍持仓，要等 z 回到 ±0.5 以内才平，而持空的止损只看 z > 3。样本内有 2 笔交易（2 笔）在持仓期间出现过 z 越过均值到另一侧 0.5 以外仍未平仓。另外平仓阈值取 0 时 |z| < 0 永远不成立，网格里测平仓阈值 0 需要改成方向性判断。
-4. **窗口 29 天与价差回归速度对不上**。样本内去掉换月跳空后的连续价差，AR(1) 半衰期为 290.0 个交易日，ADF 检验 p 值 0.27；每组合约在持期内单独估计，半衰期中位数 10.8 天，但 31 组里只有 3 组 ADF 在 5% 水平拒绝单位根。两种估计相差一个数量级，日频上价差均值回归的证据弱。
+4. **窗口 29 天与价差回归速度对不上**。样本内去掉换月跳空后的连续价差，AR(1) 半衰期为 290.0 个交易日，ADF 检验 p 值 0.27；每组合约在持期内单独估计，半衰期中位数 10.8 天，但 31 组里只有 3 组 ADF 在 5% 水平拒绝单位根。两种估计相差约 27 倍，日频上价差均值回归的证据弱。
 5. **`position_time` 记录了没用**，没有持仓时间上限。
-6. 其他（日线回测无法定量，只列出）：三腿 K 线按序号对齐而非按日期，某腿缺一根 K 线时三腿会错位；`current_l_pos` 取的是成交回报后的实际持仓，委托未成交时止损判断会失效；回测未计手续费和滑点；100 手 L、300 手 MA 的下单量未考虑盘口深度。
+6. 其他（日线回测无法定量，只列出）：三腿 K 线按序号对齐而非按日期，某腿缺一根 K 线时三腿会错位；`current_l_pos` 取的是成交回报后的实际持仓，委托未成交时止损判断会失效；100 手 L、300 手 MA 的下单量未考虑盘口深度。
 
 ## 5 修正版（样本内，1 跳成本）
 
@@ -111,7 +111,7 @@ S = 5·L + 5·PP − 30·MA（元/单位）
 | v4 +④方向性平仓 / close | 3.5% | 98.8% | 0.07 | 51.1% | 45 | 19.1 | 18 | 9 |
 | v4 +④方向性平仓 / open | 4.6% | 88.8% | 0.10 | 53.3% | 45 | 19.1 | 18 | 9 |
 
-保守口径下各步夏普：v0 原版 0.07；v1 +①止损冷静期 0.07；v2 +②换月 0.15；v3 +③窗口120天 0.09；v4 +④方向性平仓 0.10。年化收益：v0 原版 5.0%；v1 +①止损冷静期 4.3%；v2 +②换月 7.8%；v3 +③窗口120天 4.2%；v4 +④方向性平仓 4.6%。
+保守口径逐步变化：v1 +①止损冷静期：夏普 0.07→0.07，最大回撤 112.0%→88.9%，交易 158→119 笔；v2 +②换月：夏普 0.07→0.15，最大回撤 88.9%→89.4%，交易 119→112 笔；v3 +③窗口120天：夏普 0.15→0.09，最大回撤 89.4%→88.8%，交易 112→45 笔；v4 +④方向性平仓：夏普 0.09→0.10，最大回撤 88.8%→88.8%，交易 45→45 笔。
 
 ![各版本净值](fig/equity_versions.png)
 
@@ -121,7 +121,7 @@ S = 5·L + 5·PP − 30·MA（元/单位）
 
 ![夏普热力图](fig/heatmap_sharpe.png)
 
-保守口径 36 格中夏普为正的有 19 格，中位数 0.00，最高 0.37，最低 -0.49。
+保守口径 36 格中夏普为正的有 19 格，中位数 0.00，最高 0.37，最低 -0.49。选中格处在网格边上（窗口取最大值、开仓取最大值、平仓取最小值），邻域比内部格少，网格以外的参数没有测。
 
 **选参规则**：每格与它在窗口、开仓、平仓三个方向上的相邻格（含对角，边界截断）取保守口径夏普的平均，选平均最高的格，不看单点最高。选出窗口 120、开仓 2.5、平仓 0：本格夏普 0.27，邻域平均 0.18。单点最高的格是窗口 60、开仓 2、平仓 0，夏普 0.37，其邻域平均 0.04。参数已写入 `report/params.json` 并单独提交，之后才运行样本外。本次运行按同一规则重算的选择与冻结参数一致。
 
@@ -141,7 +141,7 @@ S = 5·L + 5·PP − 30·MA（元/单位）
 | 2024 | 5.5% | 0.26 | 13.6% | 2 |
 | 2025 | 26.2% | 1.41 | 12.7% | 1 |
 
-样本内 11 个年度中收益为正的有 7 个。
+样本内 11 个年度中收益为正的有 7 个；冻结参数样本内共 29 笔交易，每年 1–6 笔，年度收益在 -41.3% 到 63.9% 之间。
 
 **成本敏感性**（冻结参数，样本内）：
 
@@ -162,6 +162,8 @@ S = 5·L + 5·PP − 30·MA（元/单位）
 
 每组合约在持期内单独检验（在持不少于 40 天的 31 组）：ADF p < 0.05 的有 3 组，p 值中位数 0.350；半衰期中位数 10.8 天。
 
+**价差的期限结构**：样本内 35 次换月中，新组合约的 S 低于旧组同日收盘的占 77.1%，平均差 -1,600 元/单位。在持组逐日变化累加为 +37,255 元，而在持组原始 S 从 18,835 元变为 225 元：远月组的利润价差系统性低于近月组，每组在持期间 S 平均向上走（见第 2 节图中第二幅）。z 分数以滚动均值为中心、多空对称，持有期内的向上漂移对做空利润一方不利。冻结参数样本内（保守口径）做空利润 17 笔、净盈亏合计 18,543 元/单位；做多利润 12 笔、合计 5,338 元/单位。
+
 ## 7 样本外（2025-07-01 至 2026-09-11，冻结参数，只跑一次）
 
 参数：窗口 120、开仓 2.5、平仓 0、止损 3.75，冷静期、换月、方向性平仓均开启。样本外从空仓开始。
@@ -177,41 +179,46 @@ S = 5·L + 5·PP − 30·MA（元/单位）
 
 保守口径、1 跳：样本外年化收益 -2.8%，夏普 -0.07，最大回撤 38.0%，7 笔交易；同参数样本内夏普 0.27。乐观口径样本外夏普 0.59。
 
+两种口径的信号完全相同，差别只在成交价。样本外 7 笔交易的毛盈亏，乐观口径合计 8,105 元/单位，保守口径 405 元/单位，差 7,700；其中 2026-03-09 发出信号的那笔差 8,215，当晚在持组 S 从收盘 -5,010 元跳到次日开盘 2,800 元。去掉这一笔，两种口径毛盈亏差 -515 元/单位。
+
 样本外交易（保守口径、1 跳）：
 
 | 开仓成交日 | 方向 | 平仓成交日 | 平仓原因 | 开仓z | 平仓z | 持仓天数 | 换月 | 净盈亏(元/单位) |
 |---|---|---|---|---|---|---|---|---|
-| 20251103 | 做空利润 | 20251105 | stop_loss | 2.57 | 3.81 | 2 | 0 | -1,796 |
-| 20251107 | 做空利润 | 20251118 | stop_loss | 2.63 | 3.89 | 7 | 0 | -3,006 |
-| 20251223 | 做多利润 | 20260202 | take_profit | -2.88 | 0.04 | 27 | 0 | 2,258 |
-| 20260304 | 做多利润 | 20260306 | take_profit | -3.63 | 0.10 | 2 | 0 | 4,195 |
-| 20260310 | 做多利润 | 20260311 | take_profit | -3.73 | 1.55 | 1 | 0 | -1,853 |
-| 20260320 | 做多利润 | 20260327 | stop_loss | -3.43 | -3.83 | 5 | 0 | -2,707 |
-| 20260403 | 做多利润 | 20260701 | take_profit | -2.62 | 0.32 | 58 | 0 | 2,543 |
+| 2025-11-03 | 做空利润 | 2025-11-05 | stop_loss | 2.57 | 3.81 | 2 | 0 | -1,796 |
+| 2025-11-07 | 做空利润 | 2025-11-18 | stop_loss | 2.63 | 3.89 | 7 | 0 | -3,006 |
+| 2025-12-23 | 做多利润 | 2026-02-02 | take_profit | -2.88 | 0.04 | 27 | 0 | 2,258 |
+| 2026-03-04 | 做多利润 | 2026-03-06 | take_profit | -3.63 | 0.10 | 2 | 0 | 4,195 |
+| 2026-03-10 | 做多利润 | 2026-03-11 | take_profit | -3.73 | 1.55 | 1 | 0 | -1,853 |
+| 2026-03-20 | 做多利润 | 2026-03-27 | stop_loss | -3.43 | -3.83 | 5 | 0 | -2,707 |
+| 2026-04-03 | 做多利润 | 2026-07-01 | take_profit | -2.62 | 0.32 | 58 | 0 | 2,543 |
 
 ![样本外净值](fig/equity_oos.png)
 
 ## 8 实盘视角
 
-**三腿同步成交**：MA 在郑商所，L、PP 在大商所，三腿无法用一张组合单成交，只能分腿下单，先成交的腿要承担其余腿的价格变动。日线数据量化不了盘中分腿的风险，只能给出两个参照：样本内在持组合约的价差从前一日收盘到次日开盘的跳动绝对值中位数 135 元/单位、90% 分位 540 元，同期 29 日滚动 σ 中位数 1,438 元；冻结参数下保守口径与乐观口径的样本内夏普分别为 0.27 和 0.26，差值反映成交时点晚半天的代价。
+**三腿同步成交**：MA 在郑商所，L、PP 在大商所，三腿无法用一张组合单成交，只能分腿下单，先成交的腿要承担其余腿的价格变动。日线数据量化不了盘中分腿的风险，只能给出两个参照：样本内在持组合约的价差从前一日收盘到次日开盘的跳动绝对值中位数 135 元/单位、90% 分位 540 元，同期 29 日滚动 σ 中位数 1,438 元；冻结参数下保守、乐观口径的夏普，样本内为 0.27 和 0.26，样本外为 -0.07 和 0.59。样本外的差距主要来自第 7 节那一次隔夜跳空。信号在收盘产生，实盘要按接近收盘的价格成交，只能在收盘前几分钟用盘中价格算信号并三腿同时下单，成交价介于两种口径之间，还要承担分腿风险。
 
-**保证金**：按 12% 计，1 单位保证金中位数约 1.86 万元。冻结参数样本内（保守口径）单笔交易持仓期间最大浮亏中位数为保证金的 -14.4%，最差一笔为 -92.0%。实盘还要留出交易所临近交割月上调保证金和期货公司加收的部分；换月规则让持仓不进入交割月前一个月，避开了临近交割的保证金上调。
+**保证金**：按 12% 计，1 单位保证金中位数约 1.86 万元。冻结参数样本内（保守口径）单笔交易持仓期间最大浮亏占保证金的比例，中位数 14.4%，最差一笔 92.0%。实盘还要留出交易所临近交割月上调保证金和期货公司加收的部分；换月规则让持仓不进入交割月前一个月，避开了临近交割的保证金上调。
 
 **流动性**：样本内在持合约日成交量中位数 L 356,191 手、PP 431,306 手、MA 1,125,383 手；换月当天新组合约的成交量中位数 L 90,602、PP 100,246、MA 220,294 手。原脚本的下单量（100 手 L、100 手 PP、300 手 MA）分别占上述日成交量中位数的 0.03%、0.02%、0.03%。日成交量只说明全天容量，开盘和夜盘开盘时点的盘口深度需要逐笔数据另行评估。
 
 ## 9 结论与局限
 
 
-1. 原版逻辑在样本内扣除 1 跳成本后（保守口径）年化收益 5.0%、夏普 0.07，不具备可交易的收益。
-2. 四处修正累加后（v4，保守口径）夏普由 0.07 升至 0.10，年化收益由 5.0% 变为 4.6%。各步贡献见第 5 节表格。
-3. 参数网格保守口径 36 格中 19 格夏普为正；按邻域平均选出的参数样本内夏普 0.27。
-4. 冻结参数在样本外（保守口径、1 跳）夏普 -0.07、年化收益 -2.8%、7 笔交易，与样本内方向相反。
+1. 原版逻辑在样本内扣除 1 跳成本后（保守口径）年化收益 5.0%、夏普 0.07、最大回撤 112.0%，没有可交易的收益；主要亏损来自不换月时在交割月前一个月及交割月的持仓（第 4 节第 2 条）。
+2. 四处修正累加后（v4，保守口径）夏普由 0.07 变为 0.10，年化收益由 5.0% 变为 4.6%；单步夏普提高最多的是 v2 +②换月（0.07→0.15）。
+3. 参数网格保守口径 36 格中 19 格夏普为正、中位数 0.00；按邻域平均选出的参数样本内夏普 0.27，只有 29 笔交易。
+4. 冻结参数在样本外保守口径（1 跳）夏普 -0.07、年化收益 -2.8%，乐观口径夏普 0.59，共 7 笔交易；两种口径的差距基本来自一次隔夜跳空（第 7 节）。
+5. 去掉换月跳空后的连续价差 ADF p 值 0.27、半衰期 290 个交易日，远月组价差系统性低于近月组；在这些条件下，这个 z 分数均值回归策略修正后的样本内夏普不高、样本外保守口径没有正收益，现有证据不支持实盘。
 
 
 **局限**：
 - 只有日线，信号每天判断一次，盘中触发、分腿成交、冲击成本都没有模拟；滑点按固定跳数假设，没有盘口数据校准。
 - 手续费按名义额万分之一估计，与各期货公司实际费率不同；成本敏感性表给出 0、1、2 跳的结果。
-- 10 吨/手的 MA 合约 2014 年 6 月才上市，样本内从 2015-05-04 开始，前几个月在持的 MA 合约还不是全市场主力（当时主力是 50 吨/手的老合约，不在数据里）。
+- 10 吨/手的 MA 合约 2014 年 6 月才上市，早期组合约的 L、PP 腿成交稀少，样本内从 2015-05-04 开始，只有约 10 年。
+- 换月规则按当时持仓量最大的可选组换，样本内有 5 次先换到非 01/05/09 月份、几周内再换一次（第 2 节）；这一点在样本外运行后才发现，没有改。
+- ③ 的窗口规则在看过样本内网格后改过一次（第 5 节）。
 - 样本外约 1.2 年，交易 7 笔，统计意义有限。
 - 选参只看夏普一个指标，邻域取平均的规则本身也是一种选择。
 

diff --git a/PROGRESS.md b/PROGRESS.md
@@ -51,6 +51,7 @@
 - [x] 任务 2（样本内，保守口径 1 跳）：原版多年推广 年化 5.0%、夏普 0.07、最大回撤 112%、158 笔、胜率 53.8%；乐观口径夏普 -0.02；2409 demo 区间 8 笔、夏普 1.66
 - [x] 任务 3：夏普（保守）v0 0.07 → v1 冷静期 0.07 → v2 换月 0.15 → v3/v4 见报告（窗口 120）
 - [x] 任务 4：去跳空连续价差 ADF p=0.27、半衰期 290 天；逐组 31 组仅 3 组 p<0.05。网格保守口径夏普 -0.49~0.37。邻域规则选 窗口120/开仓2.5/平仓0（本格 0.27、邻域 0.18）；单点最高 60/2.0/0（0.37、邻域 0.04）。选中格在网格角上，报告写明
-- [ ] 任务 4 收尾：params.json 单独提交
-- [ ] 任务 5 样本外（只跑一次）
-- [ ] 任务 6 报告
+- [x] 任务 4 收尾：params.json 单独提交 596b152（2026-09-11 20:55:05）；之前先用样本内结果顶替样本外演练报告代码，没算样本外
+- [x] 任务 5：run_all.py 首次运行即样本外唯一一次计算，提交 55269f9。保守口径 1 跳 年化 -2.8%、夏普 -0.07、7 笔；乐观口径 年化 30.3%、夏普 0.59；差距主要来自 2026-03-09 收盘到 03-10 开盘一次约 7,800 元/单位的跳空（三腿成交量都大，核对过不是数据错误）。metrics_oos.csv sha256 dc29649a…、trades_oos.csv 21ad6d3f…
+- [x] 任务 6：报告文字修订（只改文字、补说明性统计，策略与参数未动；重跑后样本外两个结果文件 sha256 不变）
+- 样本外运行后才发现：换月规则在 2022 年起有 5 次先换到非 01/05/09 月份、十几到三十几个交易日后再换一次（持仓量数据如此，非代码错误）。按规矩没改规则，报告与 BLOCKED.md 写明

diff --git a/BLOCKED.md b/BLOCKED.md
@@ -10,3 +10,4 @@
 5. **手续费**：按任务书用名义额万分之一，未查实际费率；成本敏感性另测 0、2 跳滑点。
 6. **③窗口规则事后改过**：预定「半衰期取整」得 290 天，在持组自有历史不够，零交易；改成「不超过半衰期的最大网格窗口」120 天。改的时候已看过样本内网格（没看样本外），请判断是否接受。
 7. **选中参数在网格角上**（窗口 120 为最大、开仓 2.5 为最大、平仓 0 为最小），邻域只有 8 格，趋势提示最优可能在网格外（更长窗口、更高开仓阈值）；按任务书没有扩网格。
+8. **换月规则缺陷（样本外运行后发现，未改）**：规则取「可选组里前一交易日 MA 持仓量最大」。2022 年起郑商所甲醇 06、10、11、02 等月份持仓量一度超过下一个 01/05/09 合约，样本内有 5 次在截止日先换到这些月份、随后又换到 01/05/09，多付换月成本、DCE 腿也落在非主力月。可改为只在 01/05/09 中选或要求新组持仓量领先若干天，但这属于样本外之后改规则，需要领导决定是否另起一轮（新规则只能在新的样本外上检验）。
